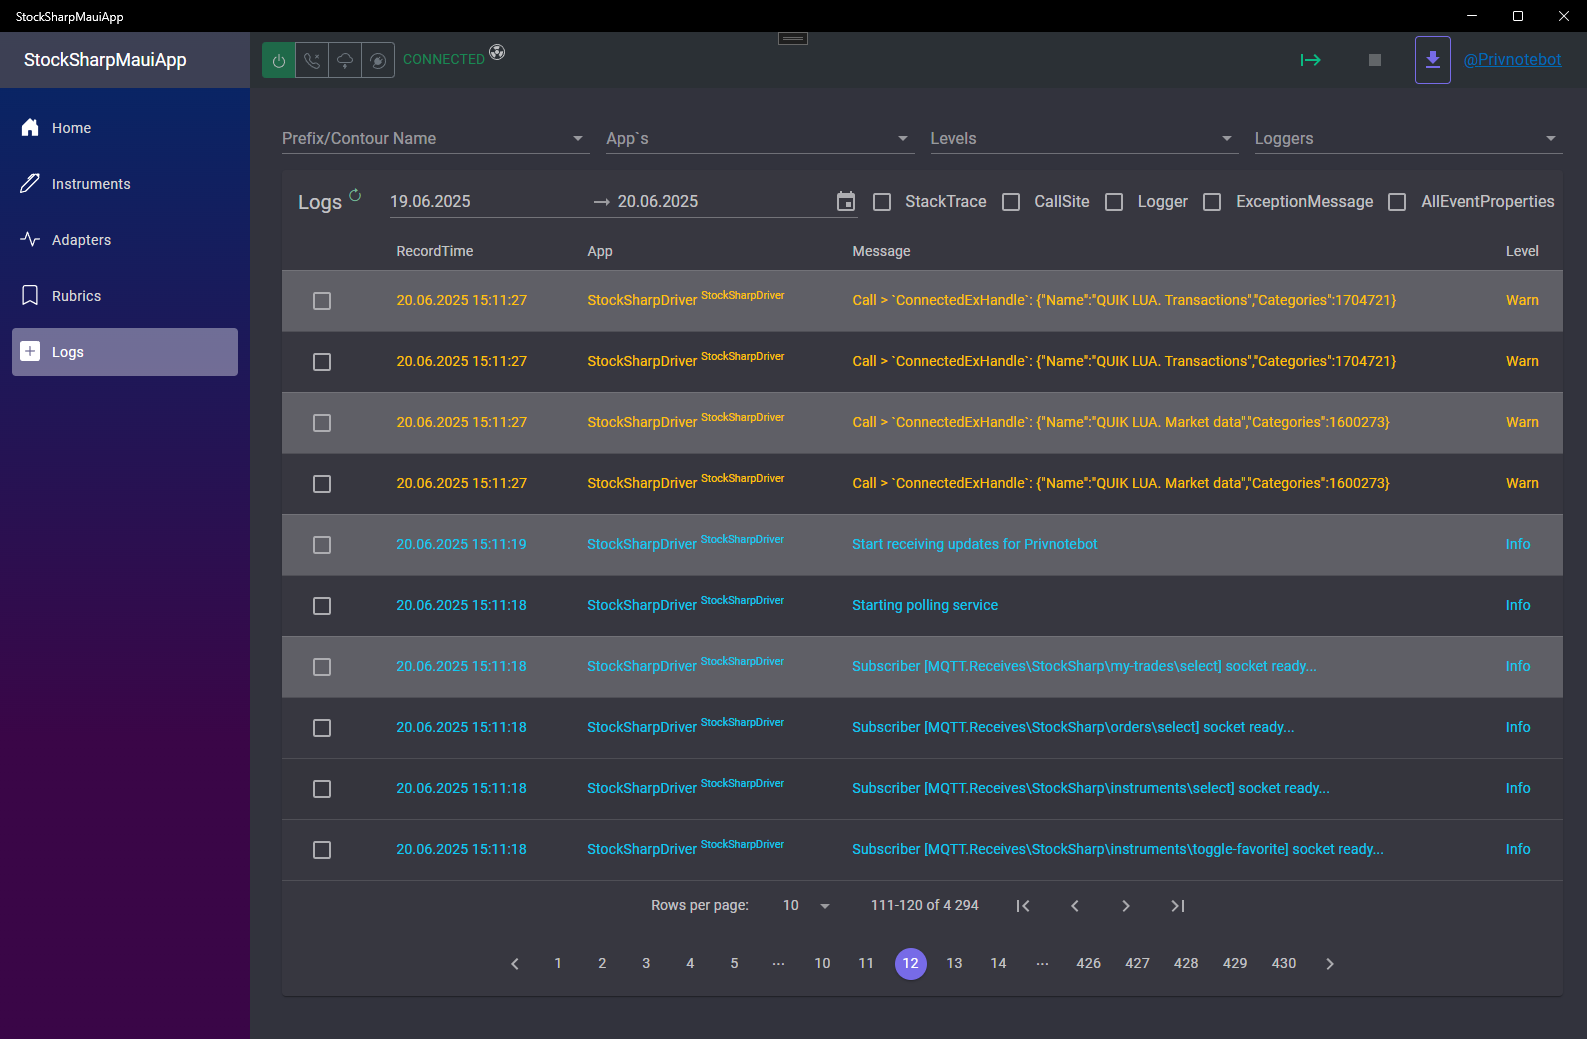
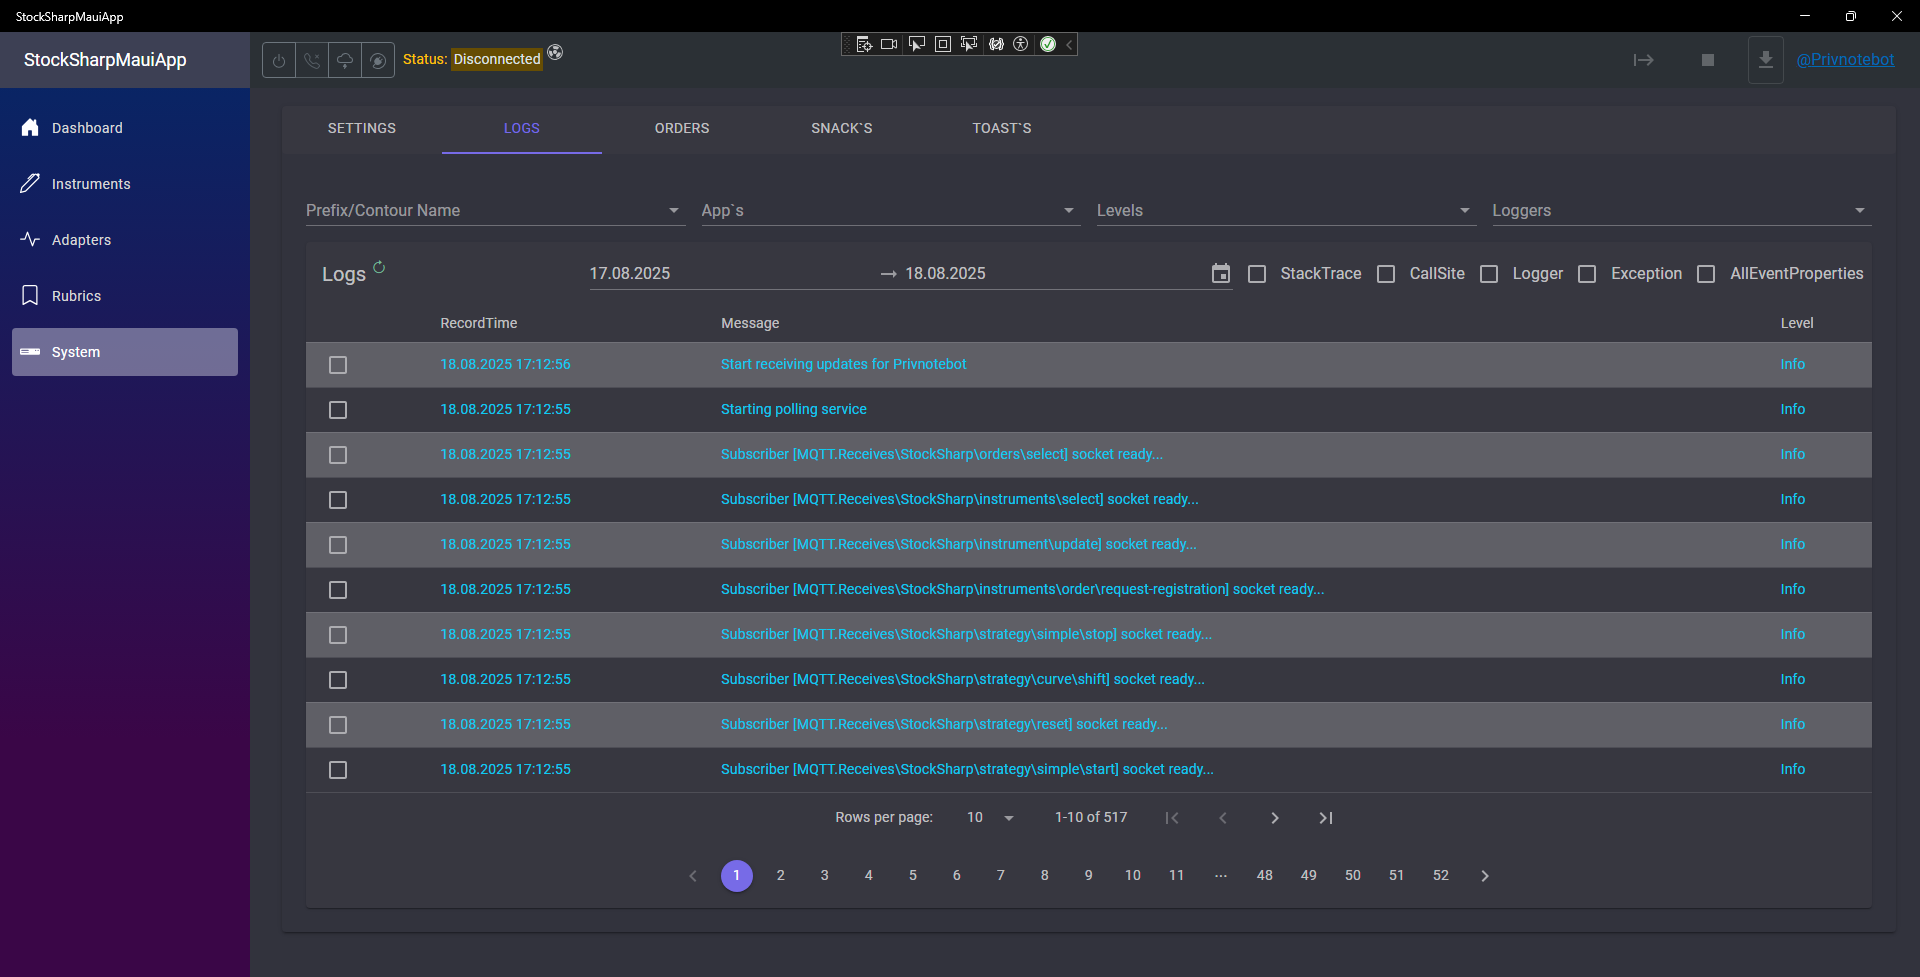
~

diff --git a/README.md b/README.md
@@ -20,6 +20,9 @@ Manage
 Rubrics (segments)
 ![rubrics view](./StockSharpMauiApp/img/rubrics-view.png)
 
+System (configs)
+![logs](./StockSharpMauiApp/img/system.png)
+
 Logs (imported of BlankCRM)
 ![logs](./StockSharpMauiApp/img/logs.png)
 
